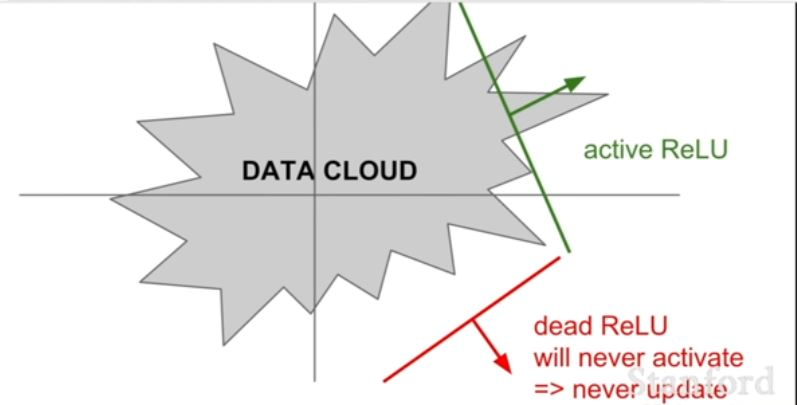
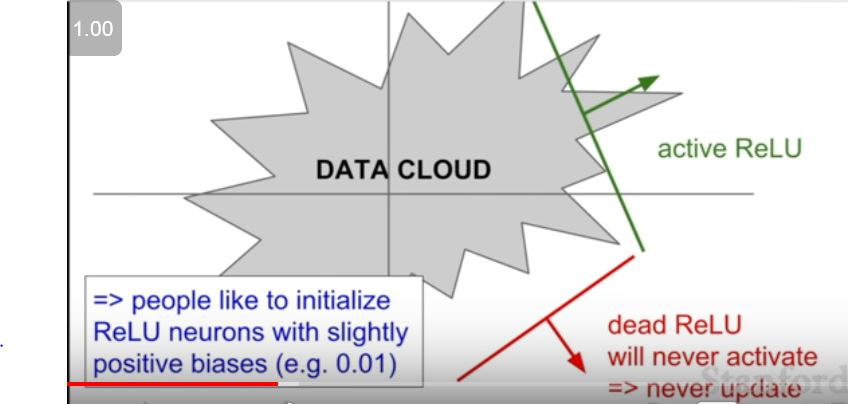
.

diff --git a/Notes/Lectures/5.lecture6.md b/Notes/Lectures/5.lecture6.md
@@ -30,7 +30,7 @@ Second problem with sigmoid func is -
 
 !["Problem"](./images/lecture6/img10.JPG)
 
-Inefficient gradient updates , w will increase or decrease in the same direction, see the zig zag part we are only allowed to travel the w value in the red path , whereas we could have just travelled along blue line.
+Inefficient gradient updates , w will increase or decrease in the same direction, see the zig zag part we are only allowed to travel the w value in the red path , whereas we could have just travelled along blue line. Suboptimal Optimization.
 
 That why we need 0 mean so that we have +ve and -ve values and don't run into such problems.
 
@@ -62,3 +62,104 @@ Bad relu reason
 
 - bad initialization
 - learning rate too high
+
+Saturated gradient becomes 0 so it does not updates the values.
+
+How do you know whether the relu is dead or not wrt the data cloud?
+
+- Not answered
+
+People initialize ReLU with slighty positive biases in order to initialize and get active ReLU and get some updates.
+
+### Modified ReLU
+
+!["Problem"](./images/lecture6/img16.JPG)
+
+### ELU
+
+!["Problem"](./images/lecture6/img17.JPG)
+
+### Maxout
+
+!["Problem"](./images/lecture6/img18.JPG)
+
+### In practice
+
+!["Problem"](./images/lecture6/img19.JPG)
+
+## Data Preprossesing
+
+!["Problem"](./images/lecture6/img20.JPG)
+
+we do zero center to images.
+
+We want to normalize so that all features are in the same range and they contribute equally.
+
+For images we don't generally normalize images because pixles are usually of the same range. 
+
+!["Problem"](./images/lecture6/img21.JPG)
+
+We don't do this in images.
+
+!["Problem"](./images/lecture6/img22.JPG)
+
+In practice we ussually calculate mean and apply the same mean in test and train data.
+
+We will have 3 means 1 mean for the green 1 for blue 1 for red
+
+Mean is taken over all the training images
+
+Data preprocessing does solve the zero mean problem for the first layer, but comes back at later layers 
+
+## Weight Initialization
+
+!["Problem"](./images/lecture6/img23.JPG)
+
+- All neurons will do the same thing
+- same output 
+- same gradient
+- which we don't want
+- we want neurons to learn different things.
+
+!["Problem"](./images/lecture6/img24.JPG)
+
+It will work for small networks but can be problem for deeper networks.
+
+!["Problem"](./images/lecture6/img25.JPG)
+
+!["Problem"](./images/lecture6/img26.JPG)
+
+- so our gradients are x and since x is small we are getting a small value and the gradients are not updating.
+
+!["Problem"](./images/lecture6/img27.JPG)
+
+- If weights are big its going to be saturated regine of tanh.All gradients 0 and weights not updating.
+
+Good initialization Xavier Initialization//Check it out in lecture notes
+
+!["Problem"](./images/lecture6/img28.JPG)
+
+!["Problem"](./images/lecture6/img29.JPG)
+
+!["Problem"](./images/lecture6/img30.JPG)
+
+## Read papers to know about initializations
+
+!["Problem"](./images/lecture6/img31.JPG)
+
+## Batch Normalizations
+
+- Wanting to keep activations in the Gaussian Range.
+
+!["Problem"](./images/lecture6/img32.JPG)
+
+!["Problem"](./images/lecture6/img33.JPG)
+
+!["Problem"](./images/lecture6/img34.JPG)
+
+!["Problem"](./images/lecture6/img35.JPG)
+
+-> did not understand the last picture
+
+!["Problem"](./images/lecture6/img36.JPG)
+
